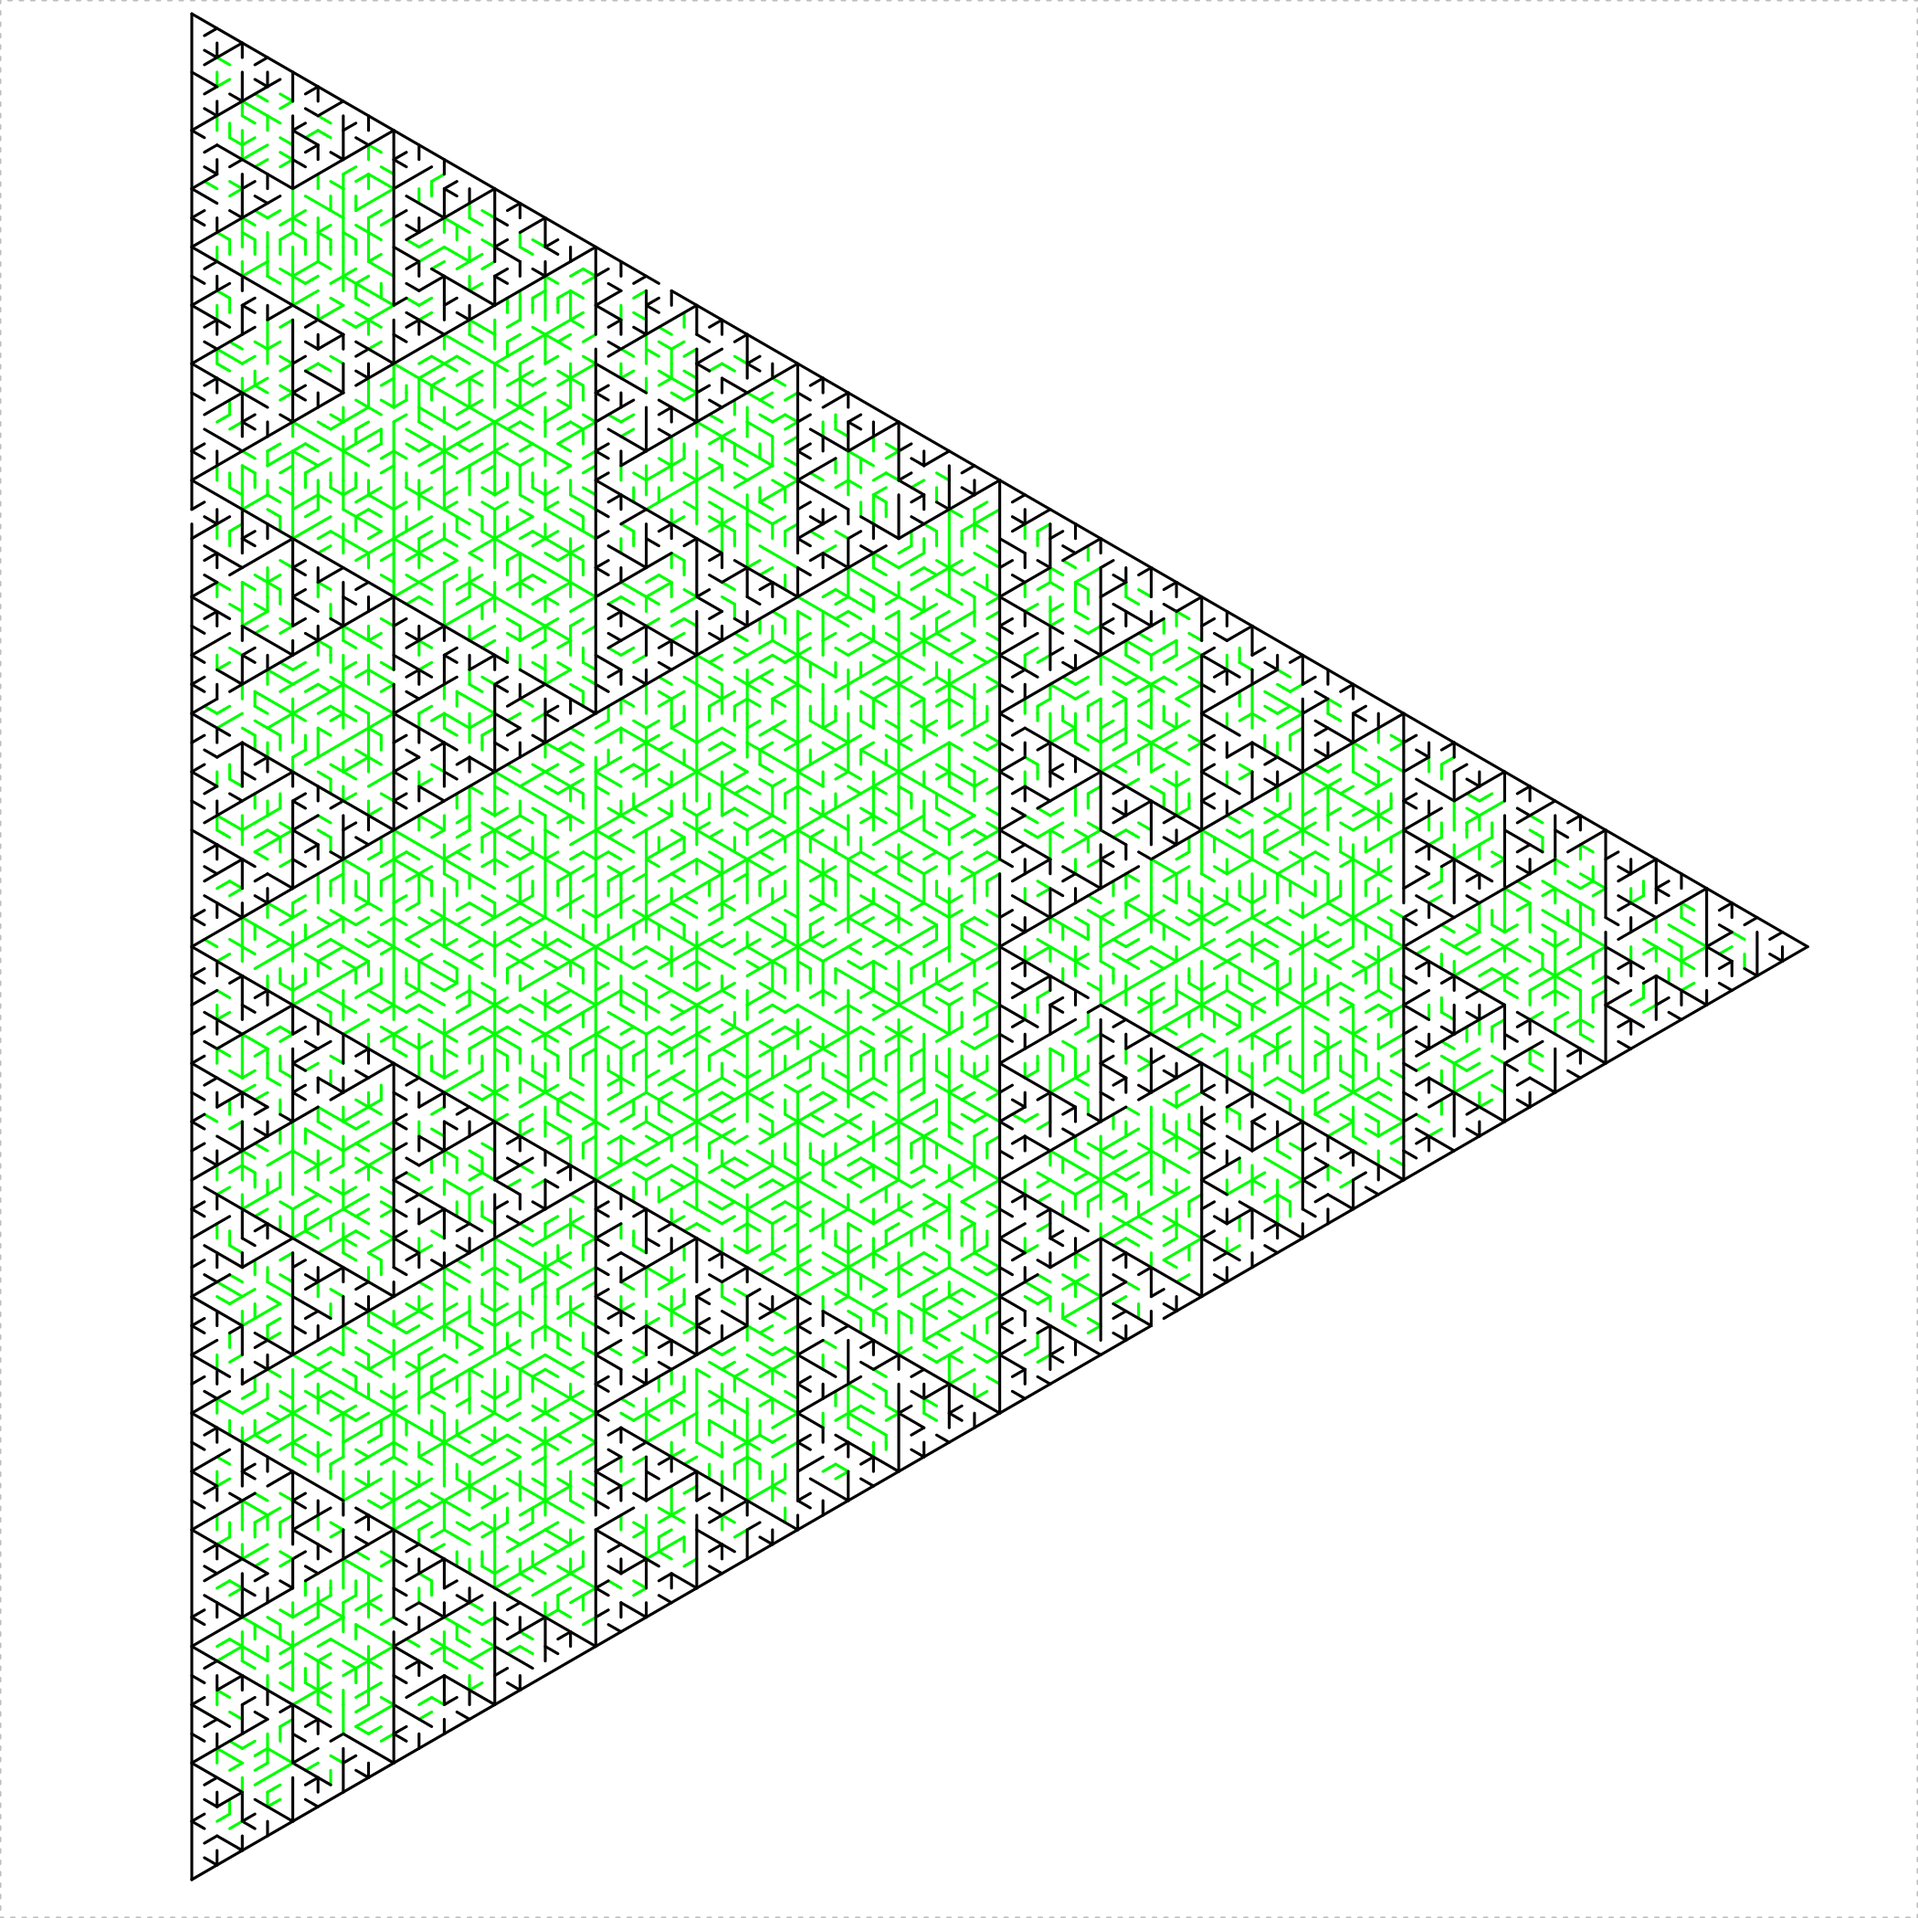
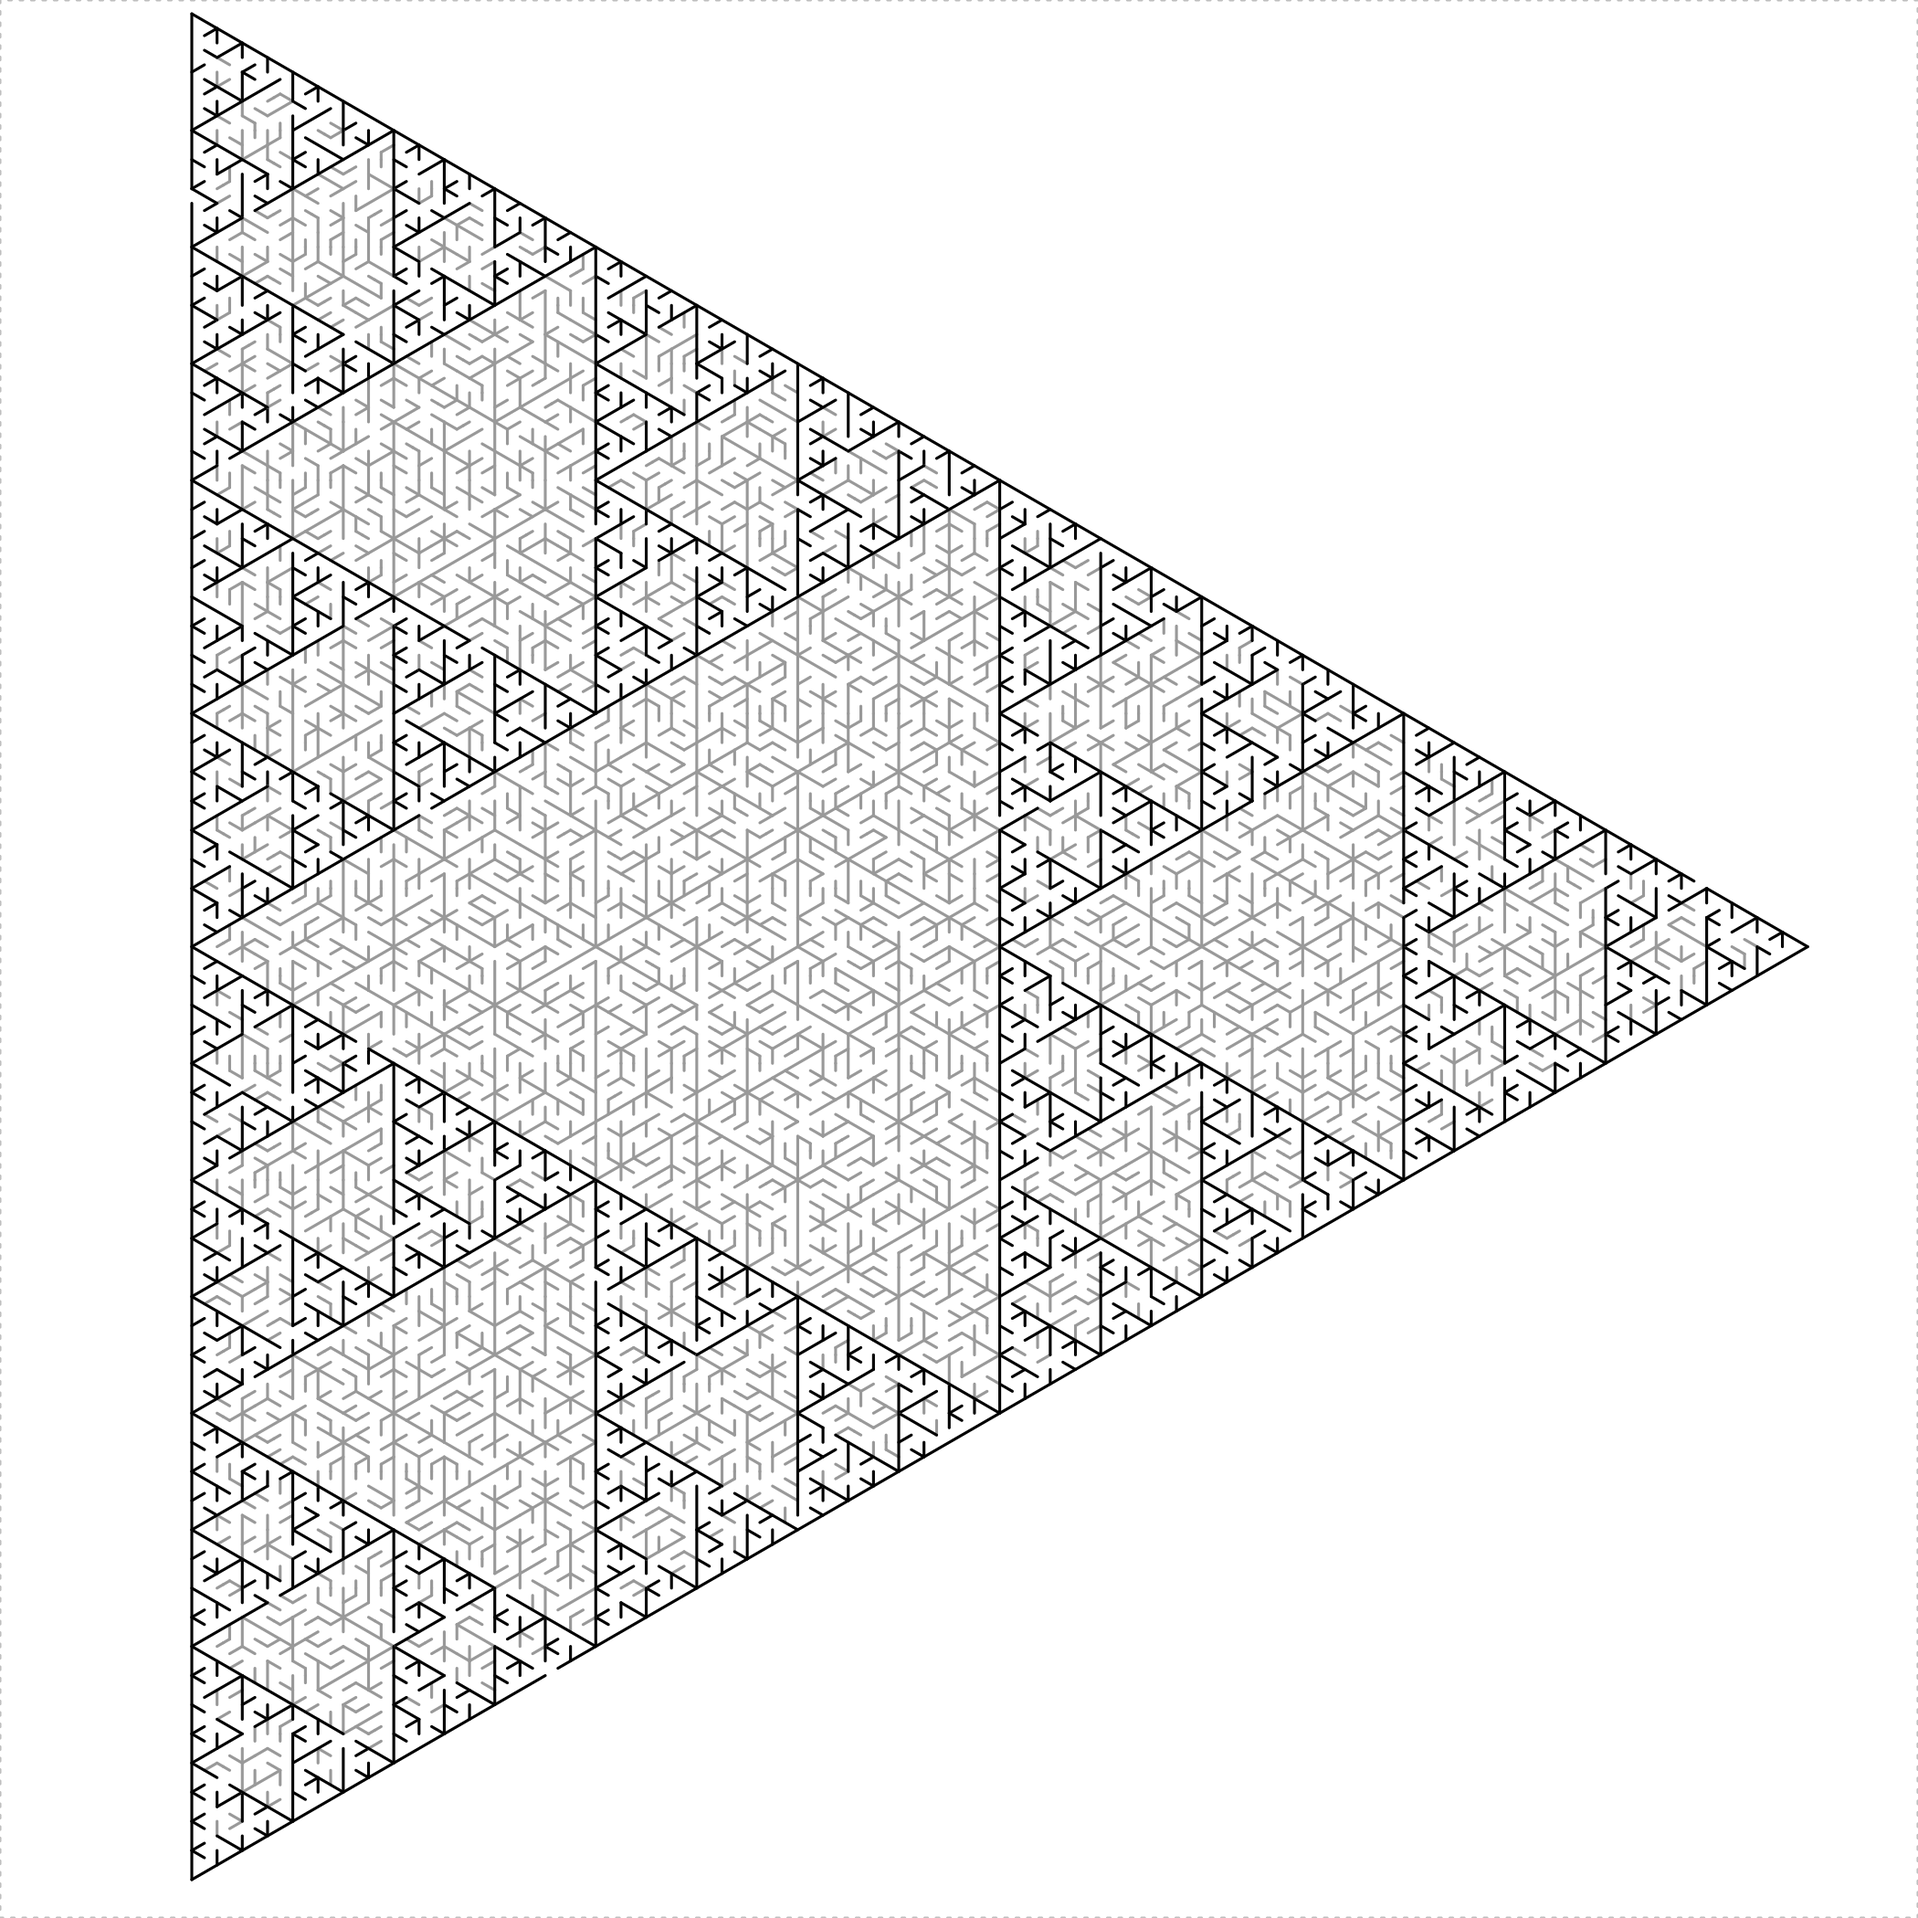
recolor sierpinski
for easier printing.

Changed region(s): [[0.0929, 0.031, 0.9286, 0.9595]]

diff --git a/README.md b/README.md
@@ -984,20 +984,21 @@ I should not have, but I did.
 
 ```r
 sierpinski <- function(unit_len, depth, boundary_lines = FALSE, 
-    boundary_hole_sides = NULL) {
+    boundary_hole_sides = NULL, color1 = "black", color2 = "green") {
     seglen <- 2^depth
     if (depth > 0) {
         for (iter in 1:3) {
-            sierpinski(unit_len, depth - 1)
+            sierpinski(unit_len, depth - 1, color1 = color1, 
+                color2 = color2)
             turtle_forward(unit_len * seglen)
             turtle_right(120)
         }
         turtle_forward(unit_len * seglen/2)
         turtle_right(60)
-        turtle_col("green")
+        turtle_col(color2)
         eq_triangle_maze(unit_len, depth = depth - 
             1, clockwise = TRUE, start_from = "corner")
-        turtle_col("black")
+        turtle_col(color1)
         holey_path(unit_len, lengths = seglen/2, angles = rep(120, 
             3), draw_line = TRUE, has_hole = rep(TRUE, 
             3))
@@ -1017,7 +1018,8 @@ turtle_do({
     turtle_setpos(250, 50)
     turtle_setangle(0)
     sierpinski(unit_len = 19, depth = 7, boundary_lines = TRUE, 
-        boundary_hole_sides = c(1, 3))
+        boundary_hole_sides = c(1, 3), color1 = "black", 
+        color2 = "gray60")
 })
 ```
 
